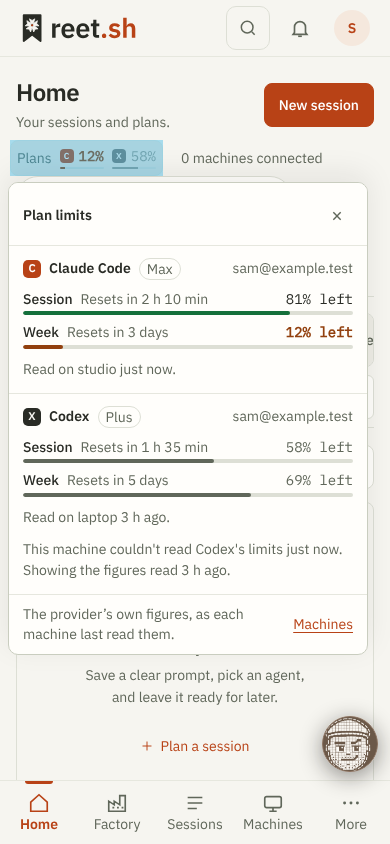
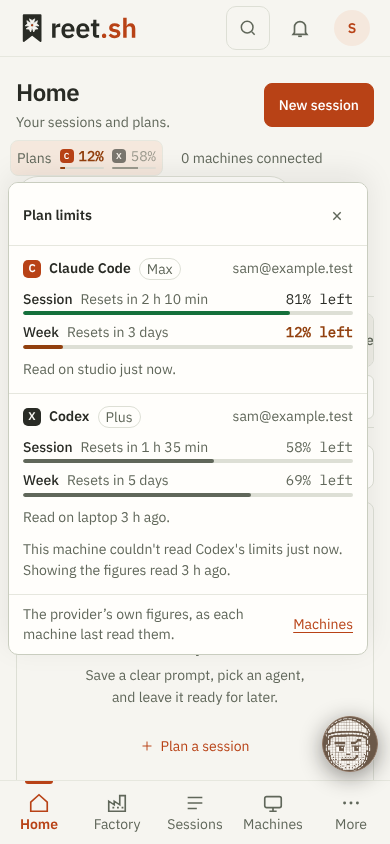
Drop the tap highlight from the plan meters
On a phone the browser's own highlight washed over the chips while the
panel was open. The chips already show their open state.

Claude-Session: https://claude.ai/code/session_011MNNzram3Xr2uZ9UFhX8yQ

Changed region(s): [[0.0, 0.154, 0.4308, 0.2156]]

diff --git a/web/src/lib/PlanMeters.svelte b/web/src/lib/PlanMeters.svelte
@@ -120,7 +120,7 @@
 
 <style>
   .plan-meters { display: inline-flex; min-width: 0; max-width: 100%; }
-  .strip { display: inline-flex; align-items: center; gap: 8px; min-width: 0; max-width: 100%; min-height: 28px; padding: 2px 6px; border: 1px solid transparent; border-radius: 8px; background: none; color: var(--ink-soft); font: inherit; cursor: pointer; }
+  .strip { display: inline-flex; align-items: center; gap: 8px; min-width: 0; max-width: 100%; min-height: 28px; padding: 2px 6px; border: 1px solid transparent; border-radius: 8px; background: none; color: var(--ink-soft); font: inherit; cursor: pointer; -webkit-tap-highlight-color: transparent; }
   .strip:hover, .strip[aria-expanded=true] { background: var(--tint); border-color: var(--line-soft); }
   .strip:focus-visible { outline: 2px solid var(--accent); outline-offset: 1px; }
   .caption { flex: none; color: var(--muted); font-size: 14px; }
